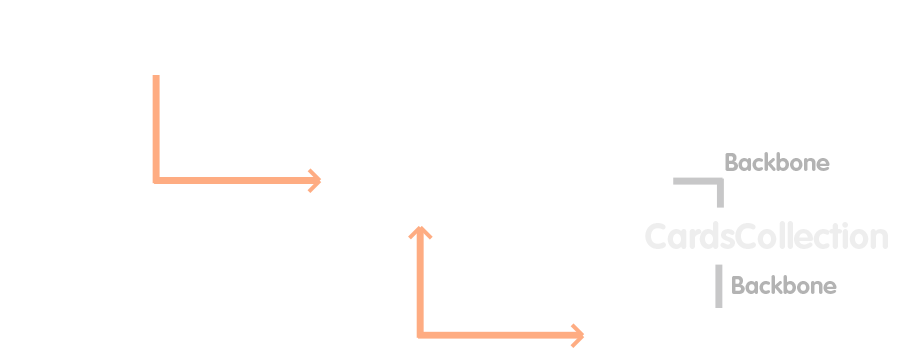
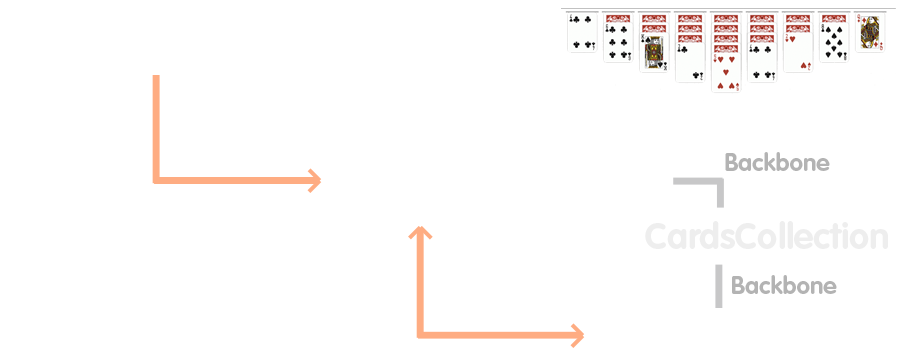
update..

Changed region(s): [[0.6229, 0.0306, 0.9967, 0.2444], [0.8409, 0.1833, 0.9032, 0.2139]]

diff --git a/index.html b/index.html
@@ -52,7 +52,7 @@
         <section>
           <h2 class='bubble'>Überblick</h2>
           <ol>
-            <li>Live Demo</li>
+            <li>Live Demo + Drag &amp; Drop</li>
             <li>Architektur</li>
             <li>Backbone Relational
               <ul>
@@ -73,21 +73,19 @@
         </section>
 
         
-        <!-- <section>
-          <h2 class='bubble'>Komponenten</h2>
+        <section>
+          <h2 class='bubble'>2. Architektur: Komponenten</h2>
           <ul>
             <li>Ruby on Rails</li>
             <li>CoffeeScript</li>
             <li>Backbone.js
               <ul>
-                <li>Backbone Marionette</li>
-                <li>Backbone Relational</li>
                 <li>HAML Coffee Templates</li>
               </ul>
             </li>
             <li>HTML5 Drag &amp; Drop API</li>
           </ul>
-        </section> -->
+        </section>
 
         <section class='large' data-state='blue'>
           <img src='images/architektur.png' style='margin-top:0'>
@@ -121,13 +119,13 @@ card.get('column') # =&gt; IG.columns.first()
 
         <section class='large' data-state='purple'>
           <h2>4. Marionette Layout</h2>
-          <!-- <pre class='large'><code>
+          <pre class='large'><code>
 &lt;!-- server-seitig --&gt;
 &lt;body&gt
   &lt;div class='fork-me'&gt;&lt;/div&gt;
   &lt;div id='l-game-container'&gt;&lt;/div&gt;
 &lt;/body&gt;
-          </code></pre> -->
+          </code></pre>
 
           <pre class='large'><code class='cs'>
 class IG.AppLayout extends Backbone.Marionette.Layout
@@ -146,7 +144,10 @@ IG.appLayout.content.show
 
         <section data-state='purple'>
           <h2>4. Marionette Views</h2>
-          <img src='images/datenmodell.png'>
+          <div>
+            <img src='images/screenshot_columns.png' style='float: left; margin-right: 30px'>
+            <img src='images/viewstruktur.png' width='650px'>
+          </div>
         </section>
 
         <section data-state='purple' class='large'>
@@ -154,22 +155,14 @@ IG.appLayout.content.show
 class IG.Views.ColumnsCollection extends Backbone.Marionette.
 CollectionView
 
-  id: 'columns-container'
-  template: 'columns/collection'
   itemViewContainer: '.columns-wrapper'
-
-  initialize: -&gt;
-    @itemView = IG.Views.ColumnsShow
+  itemView: IG.Views.ColumnsShow
             </code></pre>
 
             <pre class='large'><code>
 class IG.Views.ColumnsShow extends Backbone.Marionette.CollectionView
-  tagName: 'ul'
-  className: 'm-column'
-  template: 'columns/show'
 
-  initialize: -&gt;
-    @itemView = IG.Views.CardsShow
+  itemView: IG.Views.CardsShow
 
             </code></pre>
 
@@ -179,7 +172,7 @@ class IG.Views.CardsShow extends Backbone.Marionette.ItemView
         </section>
         
         <section>
-          <h2 class='bubble'>Spiel speichern</h2>
+          <h2 class='bubble'>Bonus Level: Spiel speichern</h2>
           <pre><code>
 data = "IG.stack.set(#{JSON.stringify(IG.stack)});
         IG.columns.reset(#{JSON.stringify(IG.columns)});
@@ -192,16 +185,8 @@ $('.octet-download')
         </section>
 
         <section>
-          <h2 class='bubble'>DOMNodeInserted Hack</h2>
-          <pre><code class='cs'>
-// http://davidwalsh.name/detect-node-insertion
-insertListener = (event) -&gt;
-  if event.animationName == 'nodeInserted'
-    $(event.target).removeClass 'off-the-board'
-
-document.addEventListener('animationstart', insertListener, false)
-          </code></pre>
-
+          <h2 class='bubble'>Bonus Level: DOMNodeInserted Hack</h2>
+          
           <pre><code>
 +keyframes(nodeInserted)
   from
@@ -214,6 +199,14 @@ document.addEventListener('animationstart', insertListener, false)
     // abusing CSS3 animations to catch event of newly inserted DOM elements
     +animation-duration(0.001s)
     +animation-name(nodeInserted)
+          </code></pre>
+          <pre><code class='cs'>
+// http://davidwalsh.name/detect-node-insertion
+insertListener = (event) -&gt;
+  if event.animationName == 'nodeInserted'
+    $(event.target).removeClass 'off-the-board'
+
+document.addEventListener('animationstart', insertListener, false)
           </code></pre>
 				</section>
 

diff --git a/notes.md b/notes.md
@@ -4,6 +4,9 @@ Solitaire mit Backbone
 Vorstellen
 ----------
 
+Paul, Entwickler bei Railslove
+Feierabendprojekt, um Backbone, Marionette und BB Relational kennenzulernen
+
 Live Demo
 ---------
 - Rommé-Kartenset (104 Karten)
